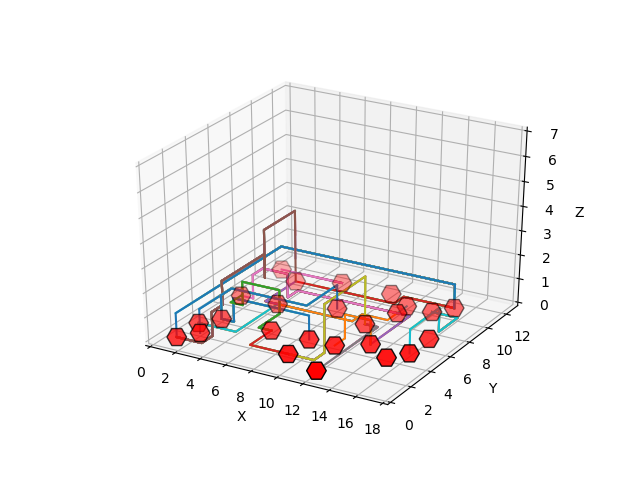
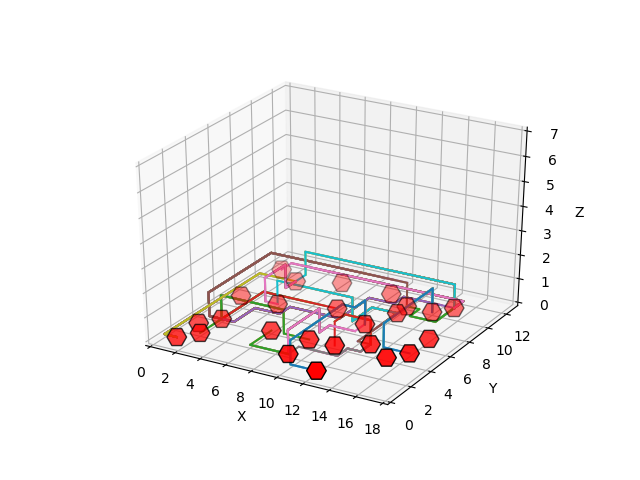
process

Changed region(s): [[0.25, 0.4375, 0.7188, 0.7812]]

diff --git a/main.py b/main.py
@@ -53,9 +53,6 @@ if __name__ == '__main__':
 		else:
 			print("That is not an option.\n")
 
-	# create a Netlist object for the chosen chip and netlist combination
-	netlist = netlist.Netlist(netlist_path, chipinit.gates, req_sort)
-
 	# let user choose an algorithm
 	while True:
 		alg_req = input("Which algorithm would you like to use? (xyz_move, astar, dfs)\n").lower()
@@ -69,14 +66,17 @@ if __name__ == '__main__':
 
 	loopcount = 0
 	while True:
-		if loopcount > 999:
+		if loopcount > 0:
 			break
 		loopcount += 1
+
+		# create a Netlist object for the chosen chip and netlist combination
+		netlist_loop = netlist.Netlist(netlist_path, chipinit.gates, req_sort)
 
 		chiploop = chip.Chip(chip_path)
 
 		# generate a solution
-		wires = wiring.Wiring(netlist.net_cor, chiploop, alg_req)
+		wires = wiring.Wiring(netlist_loop.net_cor, chiploop, alg_req)
 
 		# calculate cost of the solution
 		cost = wires.cost(wires.wire)
@@ -92,12 +92,12 @@ if __name__ == '__main__':
 		total_count += count
 
 		# get the dimensions for the visual representation
-		# x_dim = chiploop.get_x_dimension(chiploop.gates)
-		# y_dim = chiploop.get_y_dimension(chiploop.gates)
+		x_dim = chiploop.get_x_dimension(chiploop.gates)
+		y_dim = chiploop.get_y_dimension(chiploop.gates)
 
 		# # create visual representation of the solved chip
-		# visualise = matplot.visualise(chiploop.gates, wires.wire, x_dim, y_dim)
-		# break
+		visualise = matplot.visualise(chiploop.gates, wires.wire, x_dim, y_dim)
+		break
 
 	print(f"The total_cost is {total_cost}.\n")
 	print(f"The total_count is {total_count}.\n")

diff --git a/code/algorithms/astar.py b/code/algorithms/astar.py
@@ -32,12 +32,12 @@ def loose_cables(parent, current, end):
 	# how happy does going in positive z-direction make the heuristic
 	if current[2] > parent[2]:
 		looseness = 10 - current[2]
-	# elif current[2] > 0:
-	# 	looseness = 2
+	elif current[2] > 0:
+		looseness = 2
 	else:
 		looseness = 1
 
-	heuristic = pythagoras(current, end) / looseness - (2 * current[2] + looseness)
+	heuristic = manhattan_distance(current, end) / looseness - (2 * current[2] + looseness)
 
 	return heuristic
 
@@ -83,7 +83,7 @@ def astar(gates, grid, start, end):
 			return [(0, 0, 0)]
 
 		for neighbour in neighbours:
-			h = loose_cables(current_path[-1], neighbour, end) 
+			h = manhattan_distance(neighbour, end) # loose_cables(current_path[-1], neighbour, end)
 			
 			new_path = current_path + [neighbour]
 

diff --git a/code/classes/chip.py b/code/classes/chip.py
@@ -38,15 +38,6 @@ class Chip(object):
 		return gates
 
 
-	# def get_gates(self):
-	# 	gates = []
-		
-	# 	for gate in gates:
-	# 		gates.append(gate)
-		
-	# 	return gates
-
-
 	def create_grid(self, gates):
 		""" Create grid with gates. """
 

diff --git a/PROCESS.md b/PROCESS.md
@@ -153,7 +153,13 @@ Vandaag
 - functie gemaakt waarbij lijnen niet langs een gate kunnen lopen, tenzij het de eindgate is
 
 
-### Later
+### Maandag
+
+Vandaag
+  - hillclimber om oplossingen waarbij sommige kabels vastlopen te verbeteren
+  - heuristiek loose_cables oplossen, o.a. met tussenpunt, delen van de netlist aan specifieke lagen toewijzen
+  - vergelijken in normale-mensentaal
+  - hillclimber opzet voor als we eindelijk een loose_cables oplossing hebben
 
 Stap 4 - optimaliseer
 
